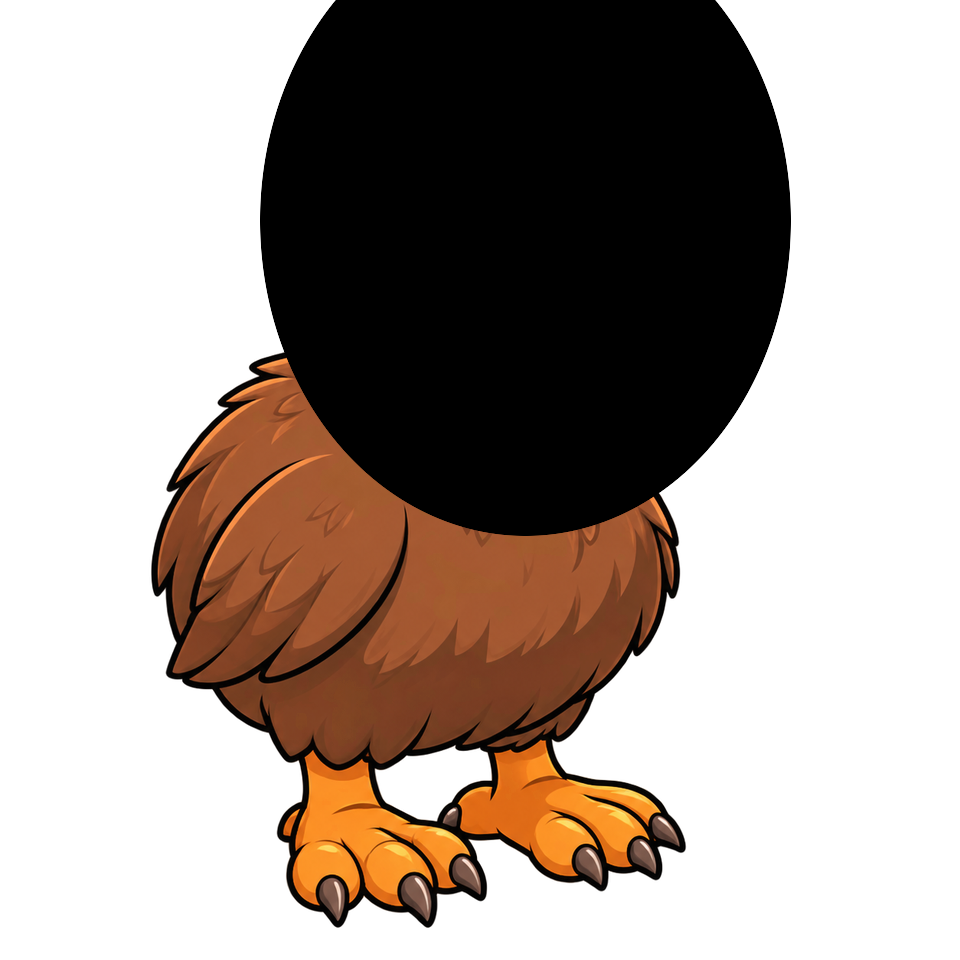
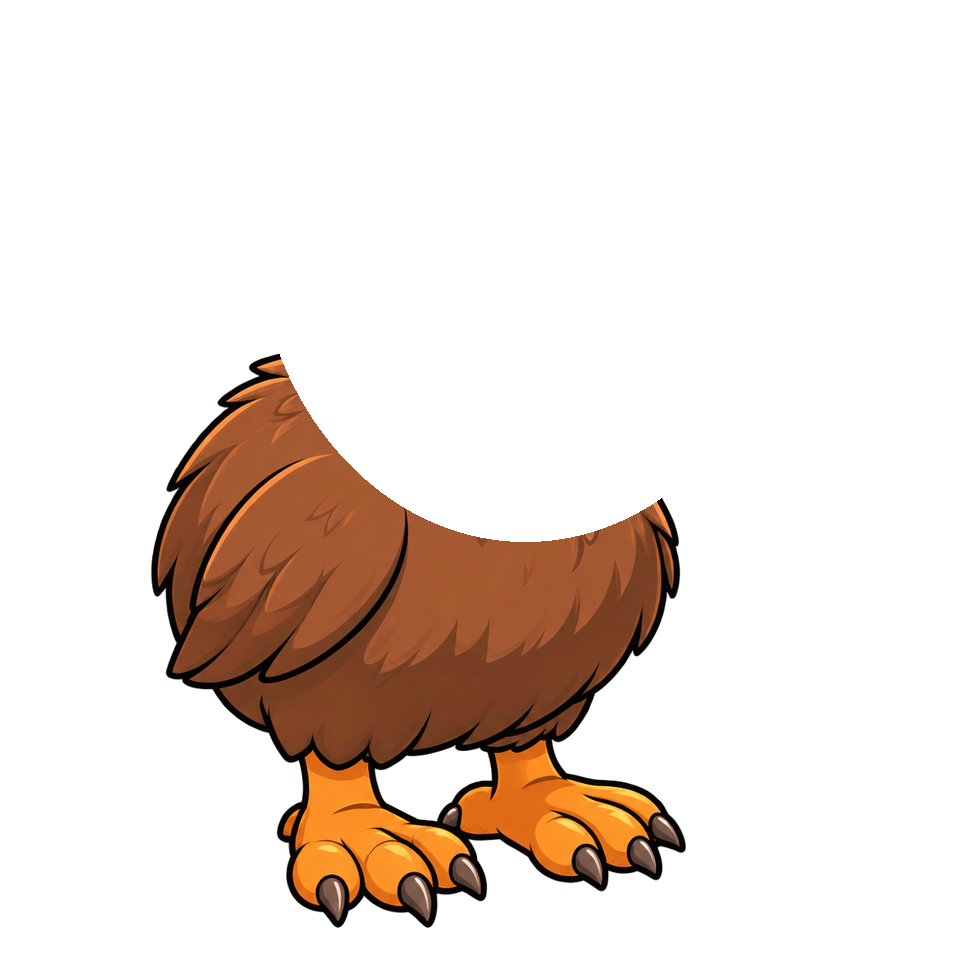
update

Changed region(s): [[0.25, 0.0, 0.8438, 0.5625]]

diff --git a/js/kiwi-avatar-renderer.js b/js/kiwi-avatar-renderer.js
@@ -21,7 +21,7 @@
     "kiwi:neck:amber-scarf": "neck-amber-scarf-rear.png",
   };
   const ASSET_ROOT = String(global.KIWI_AVATAR_ASSET_ROOT || "assets/kiwi").replace(/\/$/, "");
-  const ASSET_VERSION = String(global.KIWI_AVATAR_ASSET_VERSION || "3.25.0");
+  const ASSET_VERSION = String(global.KIWI_AVATAR_ASSET_VERSION || "3.25.1");
   const LAYOUT_CONFIG = global.KIWI_COSMETIC_LAYOUTS && typeof global.KIWI_COSMETIC_LAYOUTS === "object"
     ? global.KIWI_COSMETIC_LAYOUTS : {};
   const LAYOUT_ITEMS = LAYOUT_CONFIG.items && typeof LAYOUT_CONFIG.items === "object"
@@ -159,7 +159,7 @@
 
     const headLayout = clean.head ? layoutForReward(clean.head, "head") : null;
     const bodyFilename = clean.head
-      ? `body-${bodyName}-${expression}-${headLayout && headLayout.hideBaseHead ? "full-head" : "head"}.png`
+      ? `body-${bodyName}-${expression}-${headLayout && headLayout.hideBaseHead ? "full-full-head" : "head"}.png`
       : `body-${bodyName}-${expression}.png`;
     layers.push(imageLayer(bodyFilename, "kiwi-body-layer"));
 

diff --git a/my-nest.html b/my-nest.html
@@ -103,7 +103,7 @@
 
   <script src="./js/main.js"></script>
   <script src="./js/kiwi-cosmetic-layouts.js?v=20260820325000000000"></script>
-  <script src="./js/kiwi-avatar-renderer.js?v=3.25.0"></script>
+  <script src="./js/kiwi-avatar-renderer.js?v=3.25.1"></script>
   <script src="./js/my-nest.js?v=20260714-collection-pages"></script>
   <script src="./js/dev-mode.js?v=20260718-f8-editor-v2"></script>
 </body>

diff --git a/shop.html b/shop.html
@@ -106,7 +106,7 @@
 
   <script src="./js/main.js"></script>
   <script src="./js/kiwi-cosmetic-layouts.js?v=20260820325000000000"></script>
-  <script src="./js/kiwi-avatar-renderer.js?v=3.25.0"></script>
+  <script src="./js/kiwi-avatar-renderer.js?v=3.25.1"></script>
   <script src="./js/shop.js?v=3.22.2"></script>
   <script src="./js/dev-mode.js?v=20260718-f8-editor-v2"></script>
 </body>

diff --git a/cosmetics.html b/cosmetics.html
@@ -64,7 +64,7 @@
 
   <script src="./js/main.js"></script>
   <script src="./js/kiwi-cosmetic-layouts.js?v=20260820325000000000"></script>
-  <script src="./js/kiwi-avatar-renderer.js?v=3.25.0"></script>
+  <script src="./js/kiwi-avatar-renderer.js?v=3.25.1"></script>
   <script src="./js/shop-catalogue.js?v=3.22.2"></script>
 </body>
 </html>

diff --git a/kiwi.html b/kiwi.html
@@ -67,7 +67,7 @@
   </main>
   <script src="./js/main.js"></script>
   <script src="./js/kiwi-cosmetic-layouts.js?v=20260820325000000000"></script>
-  <script src="./js/kiwi-avatar-renderer.js?v=3.25.0"></script>
+  <script src="./js/kiwi-avatar-renderer.js?v=3.25.1"></script>
   <script src="./js/kiwi.js?v=3.22.2"></script>
 </body>
 </html>
